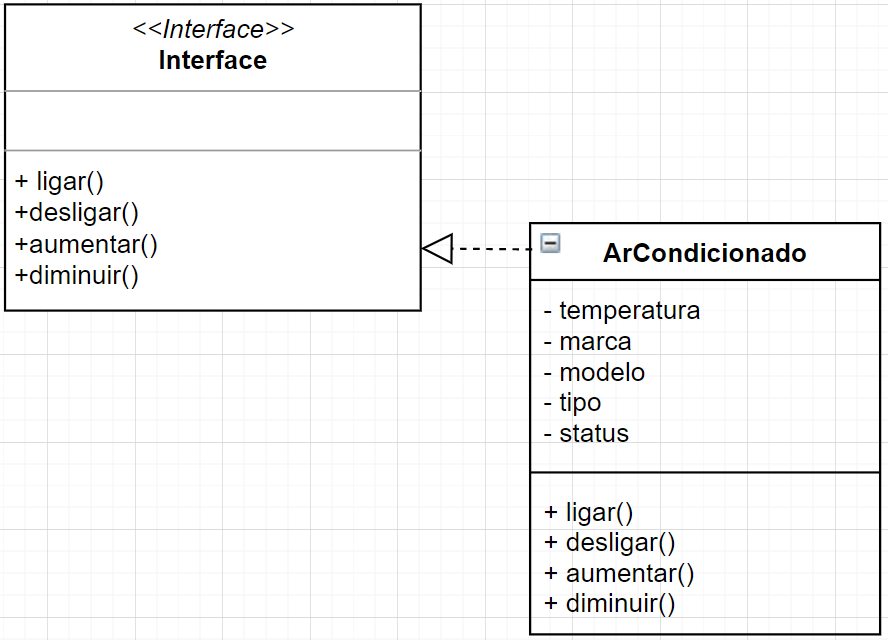
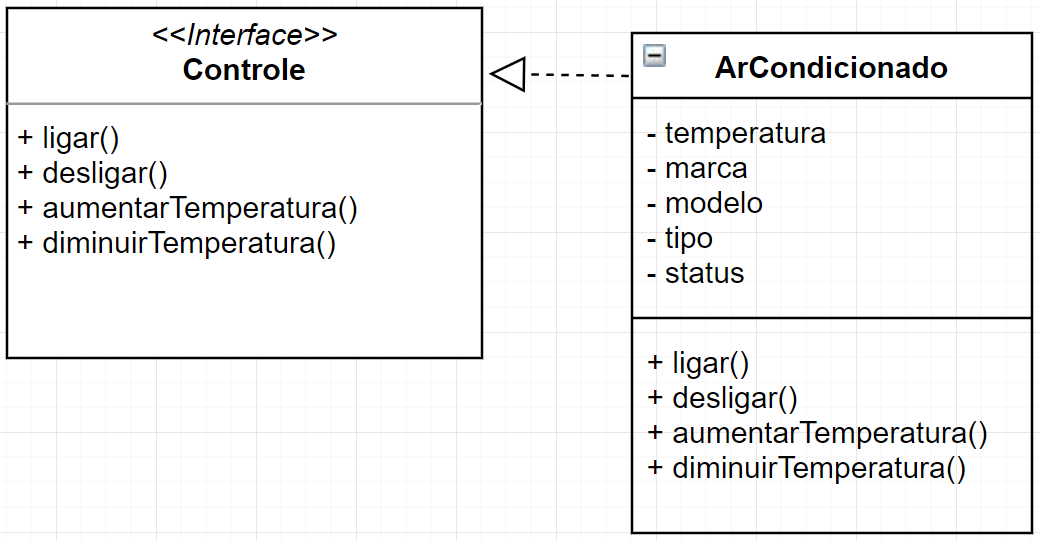
interface implementada no arCondicionado

Changed region(s): [[0.0, 0.0, 1.0, 1.0]]

diff --git a/aula05/arCondicionado.php b/aula05/arCondicionado.php
@@ -1,5 +1,12 @@
 <?php
-class clasArCondicionado{
+interface Controle{
+    public function ligar();
+    public function desligar();
+    public function aumentarTemperatura();
+    public function diminuirTemperatura();
+}
+
+class ArCondicionado implements Controle{
     private $temperatura;
     private $marca;
     private $modelo;
@@ -49,7 +56,7 @@ class clasArCondicionado{
         $this->status = $sta;
     }
 
-    public function Ligar(){
+    public function ligar(){
         if ($this->getStatus()){
             $this->setStatus(false);
             echo 'Estava ligado, agora foi desligado!';
@@ -59,7 +66,7 @@ class clasArCondicionado{
         }
     }
 
-    public function Desligar(){
+    public function desligar(){
         if($this->getStatus()) {
             $this->getStatus(false);
             echo "Desligando";            
@@ -68,14 +75,14 @@ class clasArCondicionado{
         }
     }
 
-    public function Aumentar(){
+    public function aumentarTemperatura(){
         if($this->getStatus()){
             $this->temperatura++;
             echo "Temperatura em {$this->getTemperatura()} <br>";
         }
     }
 
-    public function Diminuir(){
+    public function diminuirTemperatura(){
         if($this->getStatus()){
             $this->temperatura--;
             echo "Temperatura em {$this->getTemperatura()} <br>";

diff --git a/aula05/index.php b/aula05/index.php
@@ -28,9 +28,9 @@
     <?php
     require_once 'arCondicionado.php';
 
-    $ac1 = new clasArCondicionado(20, 'LG', 'LG20T', 'split');
+    $ac1 = new ArCondicionado(20, 'LG', 'LG20T', 'split');
     
-    $ac1->Diminuir();    
+    echo $ac1->diminuirTemperatura(); 
     ?>
 </body>
 </html>

diff --git a/atividades/Protudo/index.php b/atividades/Protudo/index.php
@@ -19,4 +19,4 @@
         echo"</pre>";
     ?>
 </body>
-</html>
+</html>k
